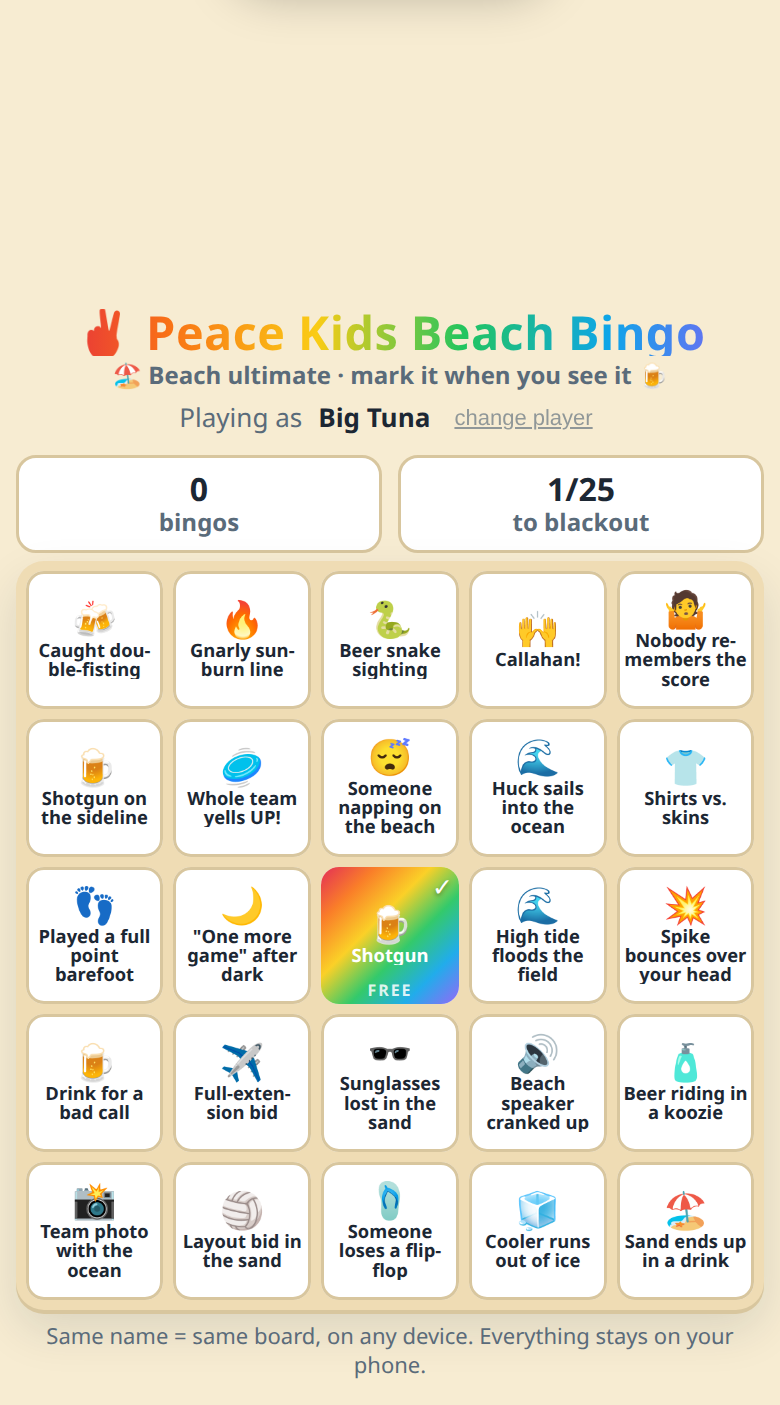
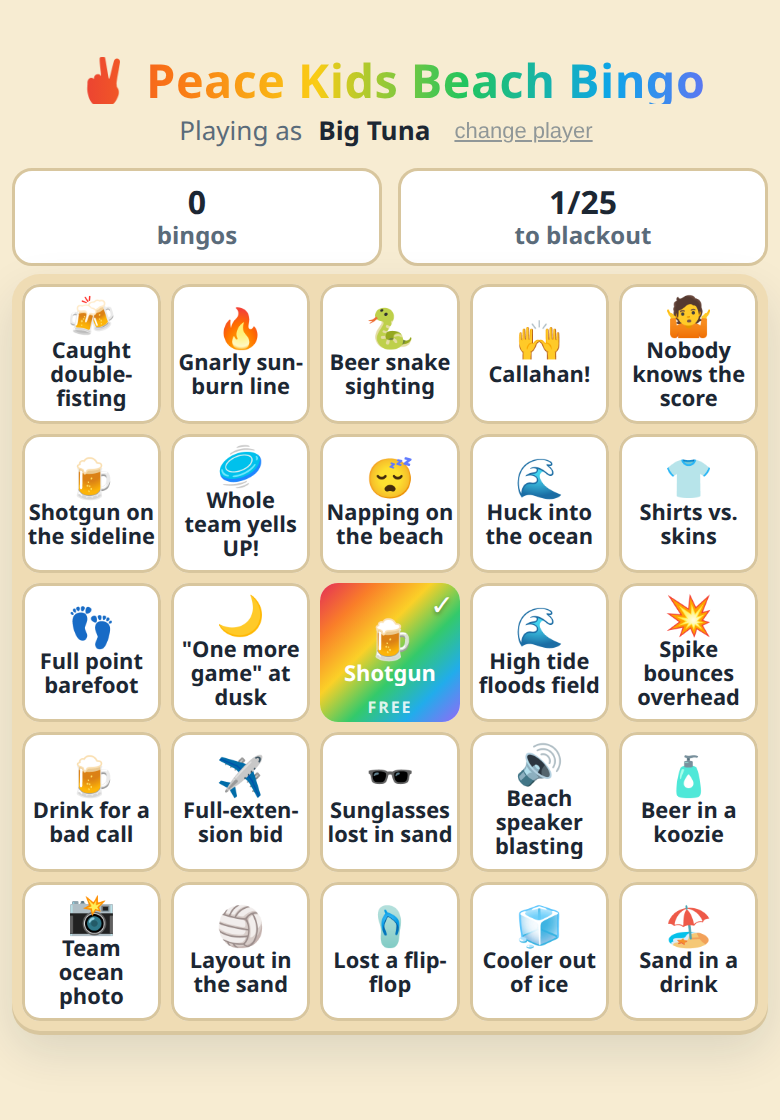
Enlarge board text and shorten the wordiest prompts to fit
Bump cell text and emoji sizes for readability, widen the board, and tighten
the longest prompt labels so nothing clips at the larger size. Refresh
screenshots.

diff --git a/index.html b/index.html
@@ -19,7 +19,7 @@
     background:var(--sand);color:var(--ink);
     font:15px/1.3 system-ui,-apple-system,"Segoe UI",sans-serif;-webkit-font-smoothing:antialiased;
     display:flex;flex-direction:column;align-items:center;justify-content:center;
-    padding:env(safe-area-inset-top) 8px calc(env(safe-area-inset-bottom) + 6px);
+    padding:env(safe-area-inset-top) 6px calc(env(safe-area-inset-bottom) + 6px);
     overflow:hidden;
   }
 
@@ -54,7 +54,7 @@
 
   /* ---- Board ---- */
   .board{
-    width:min(96vw, calc(100dvh - 216px));max-width:560px;aspect-ratio:1;
+    width:min(97vw, calc(100dvh - 176px));max-width:600px;aspect-ratio:1;
     display:grid;grid-template-columns:repeat(5,1fr);grid-template-rows:repeat(5,1fr);
     gap:5px;padding:5px;background:var(--sand-deep);border-radius:14px;
     box-shadow:0 2px 0 var(--line), 0 10px 24px rgba(20,40,60,.12);
@@ -68,11 +68,11 @@
     transition:transform .06s ease;
   }
   .cell:active{transform:scale(.94);}
-  .cell .emoji{font-size:clamp(15px,4.6vw,26px);line-height:1;}
-  .cell img{width:clamp(20px,6vw,34px);height:clamp(20px,6vw,34px);object-fit:contain;}
+  .cell .emoji{font-size:clamp(17px,5vw,30px);line-height:1;}
+  .cell img{width:clamp(22px,6.4vw,38px);height:clamp(22px,6.4vw,38px);object-fit:contain;}
   .cell .txt{
-    font-size:clamp(7.5px,2.35vw,12px);font-weight:700;line-height:1.05;
-    overflow-wrap:anywhere;hyphens:auto;max-height:3.6em;overflow:hidden;
+    font-size:clamp(9px,2.8vw,14px);font-weight:700;line-height:1.1;
+    overflow-wrap:anywhere;hyphens:auto;max-height:4.2em;overflow:hidden;
   }
   .cell.marked{color:#fff;box-shadow:inset 0 0 0 2px rgba(255,255,255,.4);}
   .cell.marked::before{
@@ -81,7 +81,7 @@
   .cell.marked .emoji,.cell.marked .txt,.cell.marked img{position:relative;z-index:1;}
   .cell.marked img{filter:drop-shadow(0 1px 1px rgba(0,0,0,.35));}
   .cell .stamp{
-    position:absolute;z-index:2;top:2px;right:3px;font-size:clamp(11px,3.2vw,16px);
+    position:absolute;z-index:2;top:2px;right:3px;font-size:clamp(12px,3.6vw,18px);
     color:#fff;text-shadow:0 1px 2px rgba(0,0,0,.35);opacity:0;transform:scale(.4);
     transition:opacity .12s ease,transform .12s ease;
   }
@@ -171,36 +171,36 @@ const CONFIG = {
 };
 
 const PROMPTS = [
-  { text: "Layout bid in the sand",       emoji: "🏐" },
-  { text: "Gnarly sunburn line",          emoji: "🔥" },
-  { text: "Someone loses a flip-flop",    emoji: "🩴" },
-  { text: "Beer riding in a koozie",      emoji: "🧴" },
-  { text: "Diving catch in the water",    emoji: "🌊" },
-  { text: "Whole team yells UP!",         emoji: "🥏" },
-  { text: "Cooler runs out of ice",       emoji: "🧊" },
-  { text: "Played a full point barefoot", emoji: "👣" },
-  { text: "Callahan!",                    emoji: "🙌" },
-  { text: "Dog runs onto the field",      emoji: "🐕" },
-  { text: "Spike bounces over your head", emoji: "💥" },
-  { text: "Team photo with the ocean",    emoji: "📸" },
-  { text: "Someone napping on the beach", emoji: "😴" },
-  { text: "Beer snake sighting",          emoji: "🐍" },
-  { text: "Sand ends up in a drink",      emoji: "🏖" },
-  { text: "Huck sails into the ocean",    emoji: "🌊" },
-  { text: "Shirts vs. skins",             emoji: "👕" },
-  { text: "Sunglasses lost in the sand",  emoji: "🕶" },
-  { text: "Caught double-fisting",        emoji: "🍻" },
-  { text: '"One more game" after dark',   emoji: "🌙" },
-  { text: "Bloody scrape from the sand",  emoji: "🩹" },
-  { text: "Beach speaker cranked up",     emoji: "🔊" },
-  { text: "Drink for a bad call",         emoji: "🍺" },
-  { text: "Chase the disc into the sea",  emoji: "🏊" },
-  { text: "Hiding in the shade tent",     emoji: "⛺" },
-  { text: "Warpaint sunscreen",           emoji: "🧴" },
-  { text: "Full-extension bid",           emoji: "✈" },
-  { text: "Nobody remembers the score",   emoji: "🤷" },
-  { text: "Shotgun on the sideline",      emoji: "🍺" },
-  { text: "High tide floods the field",   emoji: "🌊" },
+  { text: "Layout in the sand",       emoji: "🏐" },
+  { text: "Gnarly sunburn line",      emoji: "🔥" },
+  { text: "Lost a flip-flop",         emoji: "🩴" },
+  { text: "Beer in a koozie",         emoji: "🧴" },
+  { text: "Diving catch, in water",   emoji: "🌊" },
+  { text: "Whole team yells UP!",     emoji: "🥏" },
+  { text: "Cooler out of ice",        emoji: "🧊" },
+  { text: "Full point barefoot",      emoji: "👣" },
+  { text: "Callahan!",                emoji: "🙌" },
+  { text: "Dog on the field",         emoji: "🐕" },
+  { text: "Spike bounces overhead",   emoji: "💥" },
+  { text: "Team ocean photo",         emoji: "📸" },
+  { text: "Napping on the beach",     emoji: "😴" },
+  { text: "Beer snake sighting",      emoji: "🐍" },
+  { text: "Sand in a drink",          emoji: "🏖" },
+  { text: "Huck into the ocean",      emoji: "🌊" },
+  { text: "Shirts vs. skins",         emoji: "👕" },
+  { text: "Sunglasses lost in sand",  emoji: "🕶" },
+  { text: "Caught double-fisting",    emoji: "🍻" },
+  { text: '"One more game" at dusk',  emoji: "🌙" },
+  { text: "Bloody sand scrape",       emoji: "🩹" },
+  { text: "Beach speaker blasting",   emoji: "🔊" },
+  { text: "Drink for a bad call",     emoji: "🍺" },
+  { text: "Chase disc into the sea",  emoji: "🏊" },
+  { text: "Hiding in a shade tent",   emoji: "⛺" },
+  { text: "Warpaint sunscreen",       emoji: "🧴" },
+  { text: "Full-extension bid",       emoji: "✈" },
+  { text: "Nobody knows the score",   emoji: "🤷" },
+  { text: "Shotgun on the sideline",  emoji: "🍺" },
+  { text: "High tide floods field",   emoji: "🌊" },
 ];
 
 /* ============================================================================
